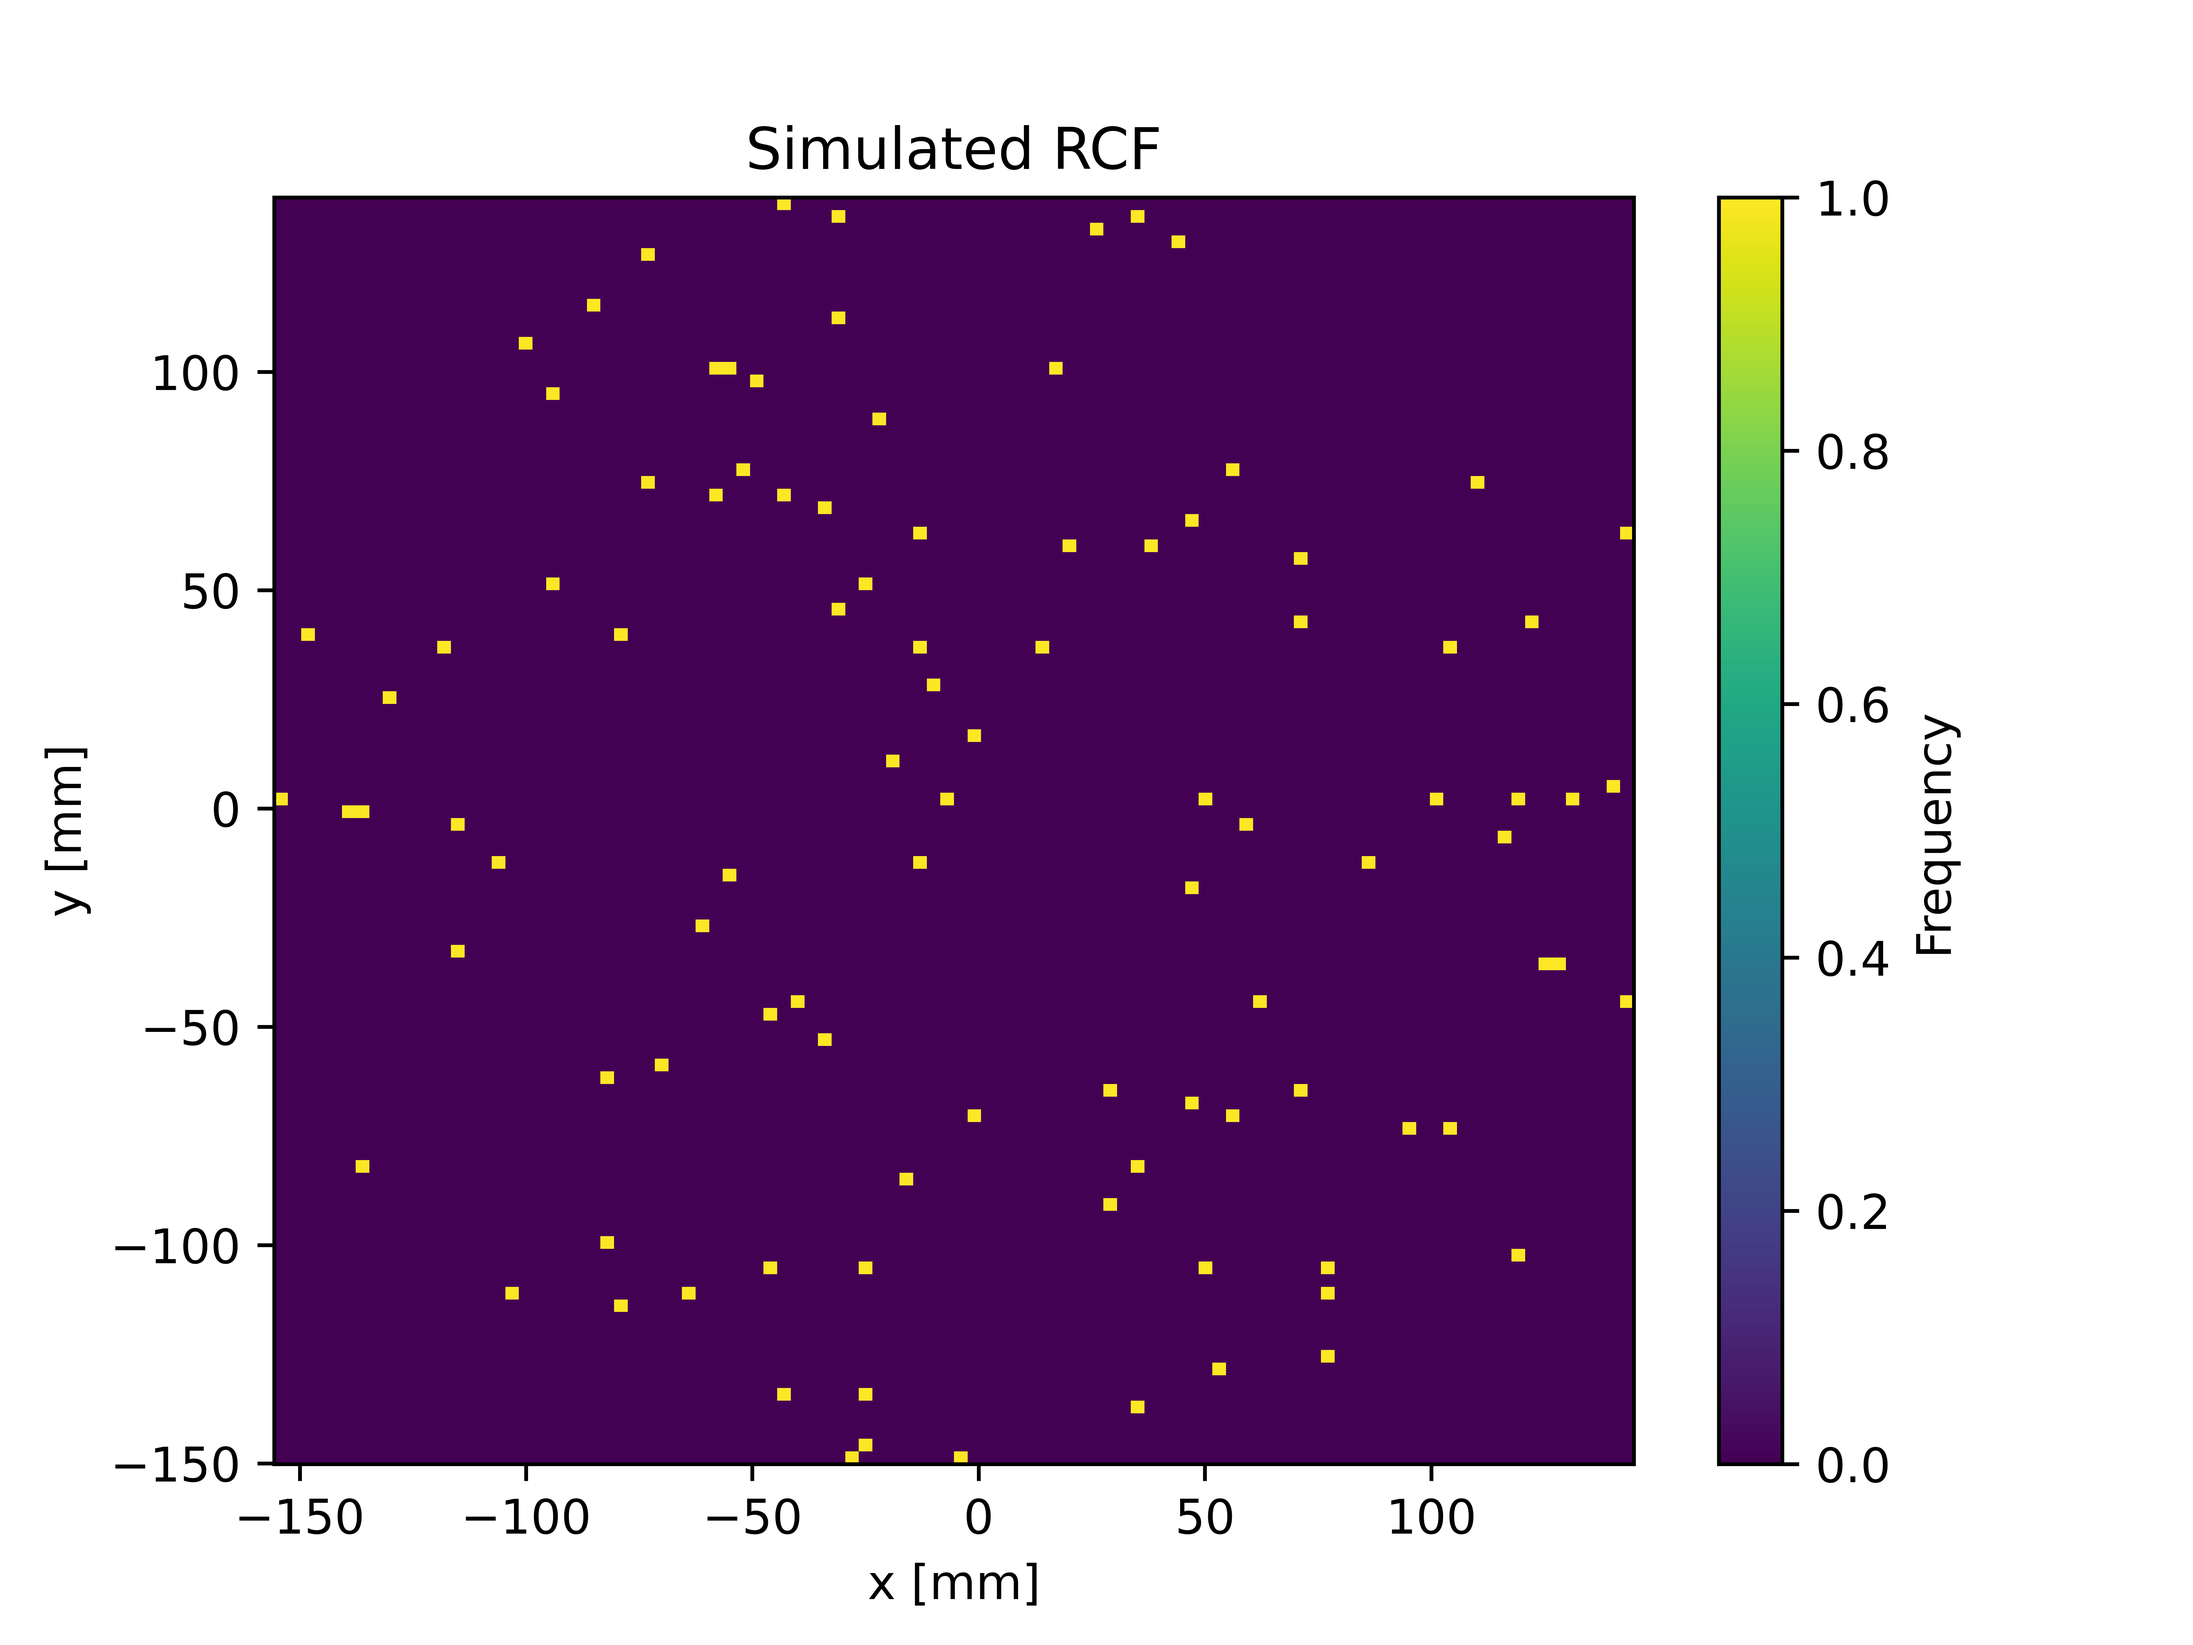
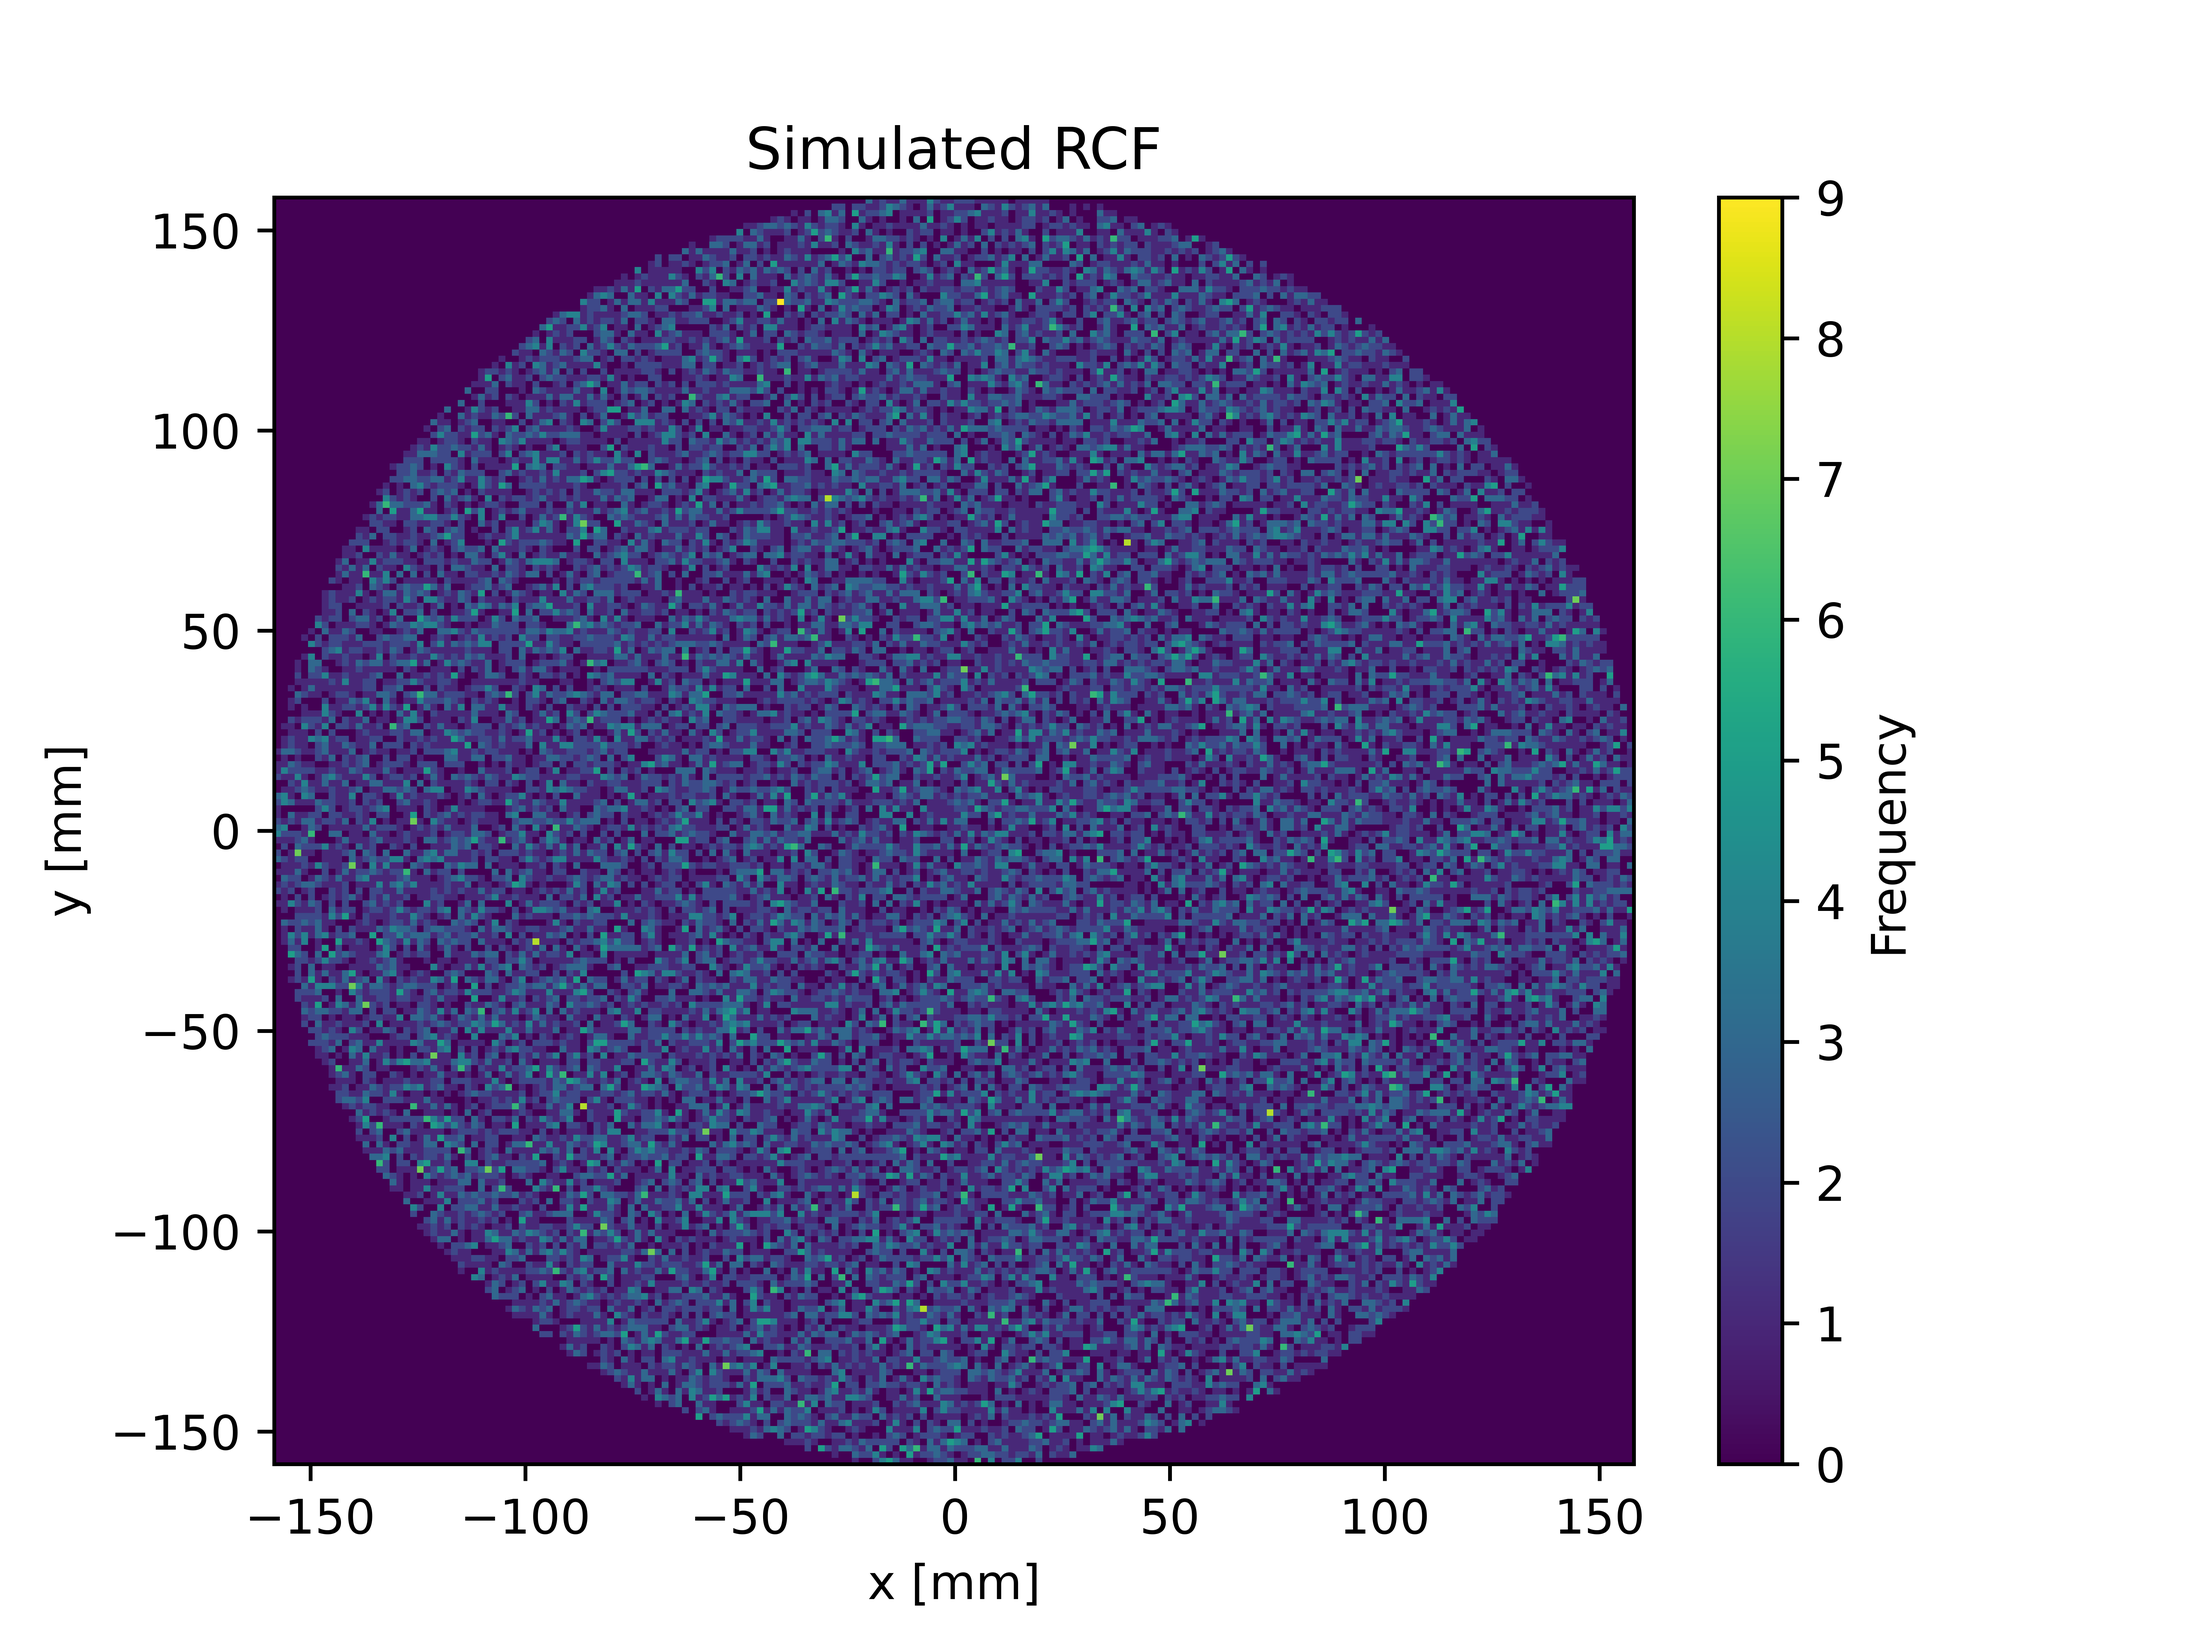
Run realistic

diff --git a/BB_RCF.py b/BB_RCF.py
@@ -107,7 +107,7 @@ class ProtonBeam():
         send_beam_mp (MCP):
             shoot protons one at a time and plot final positions
     '''
-    RHO0 = 0.2 # base density
+    RHO0 = 1 # base density
     DECAY_LENGTH = 0.2 # density decay length scale
     AMP = 0.1 # beam amplitude
     WIDTH = 0.1 # beam width
@@ -118,7 +118,7 @@ class ProtonBeam():
     SPEC_AMP = 0.05 # speckle amplitude
 
     # Realistic mode
-    MOD_AMP = 0.005 # modulation amplitude
+    MOD_AMP = 2 # modulation amplitude
     MOD_FREQ = 10 # modulation frequency
     NUM = 50 # physics resolution
 
@@ -320,7 +320,7 @@ class ProtonBeam():
         if plot:
             plt.figure()
             plt.title("Simulated RCF")
-            plt.hist2d(positions[:, 0]*1000, positions[:, 1]*1000, bins = 100)
+            plt.hist2d(positions[:, 0]*1000, positions[:, 1]*1000, bins = 200)
             plt.xlabel("x [mm]")
             plt.ylabel("y [mm]")
             plt.colorbar(label = "Frequency")
@@ -329,6 +329,6 @@ class ProtonBeam():
         return positions
 
 if __name__ == "__main__":
-    sample_beam = ProtonBeam(1e2, 10, 'even')
-    sample_beam.plot_spectrum(100)
+    sample_beam = ProtonBeam(5e4, 10, 'even')
+    sample_beam.plot_spectrum(200)
     position_arr = sample_beam.send_beam_mp()

diff --git a/BB_Realistic.py b/BB_Realistic.py
@@ -111,13 +111,13 @@ def biermann_field(beam_sh, density_distr, width) -> np.array:
 
 if __name__ == "__main__":
     # Parameters
-    RHO0 = 10
-    DECAY_LENGTH = 0.1
-    AMP = 10
+    RHO0 = 0.2
+    DECAY_LENGTH = 0.2
+    AMP = 0.1
     MOD_AMP = 0.5
-    MOD_FREQ = 1
-    WIDTH = 10
-    NUM = 20
+    MOD_FREQ = 10
+    WIDTH = 0.1
+    NUM = 50
 
     densities = density(RHO0, DECAY_LENGTH, NUM)
     mod_beam = beam(AMP, WIDTH, MOD_AMP, MOD_FREQ, NUM)
@@ -129,7 +129,7 @@ if __name__ == "__main__":
     fig = plt.figure()
     ax = fig.add_subplot(111, projection='3d')
     x, y, z = np.meshgrid(x_arr, x_arr, x_arr)
-    ax.quiver(x, y, z, bf[:, :, :, 1], bf[:, :, :, 0], bf[:, :, :, 2], length=1,
+    ax.quiver(x, y, z, bf[:, :, :, 1], bf[:, :, :, 0], bf[:, :, :, 2], length=0.00001,
               linewidth = 2, arrow_length_ratio = 0.3)
     x, y = np.meshgrid(x_arr, x_arr)
     ax.plot_surface(x, y, mod_beam, cmap = "Oranges")

diff --git a/README.md b/README.md
@@ -1,6 +1,7 @@
 # Biermann_Battery
 
-- BB_Simple.py: Run sample calculation and plotting of Biermann battery magnetic field from ablation density in laser field
+- BB_Simple.py: Run sample calculation and plotting of Biermann battery magnetic field from ablation density in laser field.
+- BB_Realistic.py: Input real laser field and plot Biermann battery magnetic field generated.
 - BB_RCF.py: Simulate an RCF radiated by protons through Biermann magnetic field.
 
 Output simulated RCF
